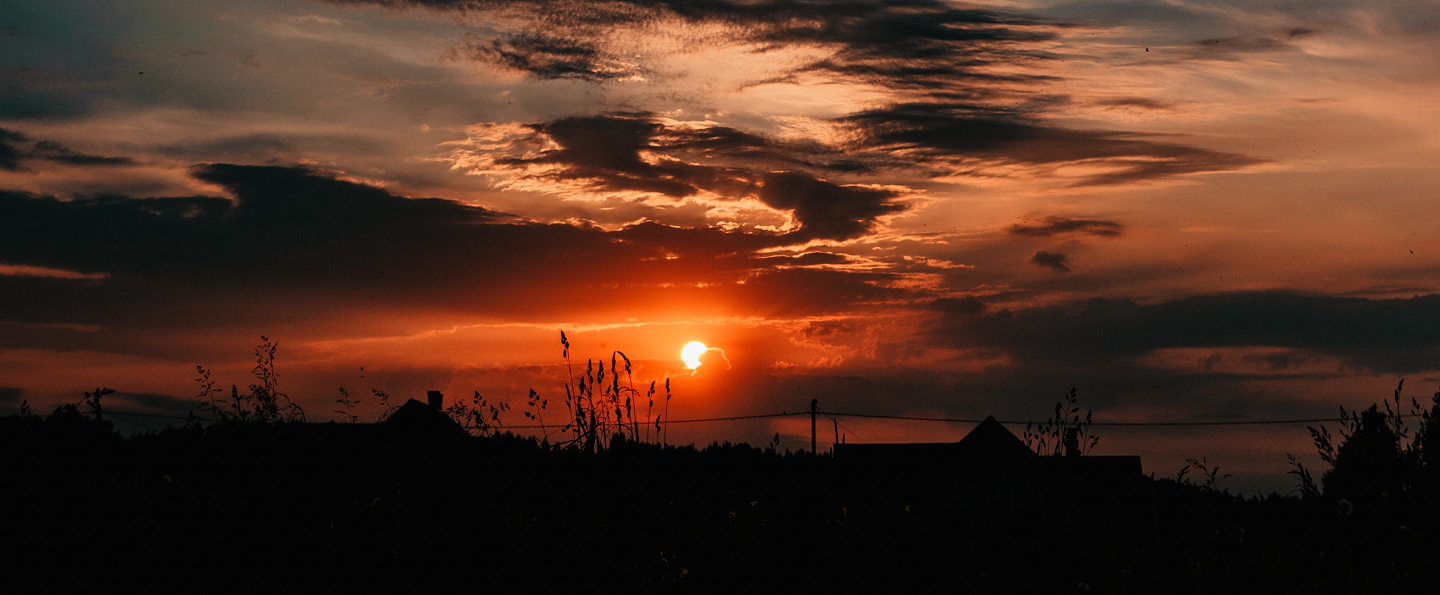
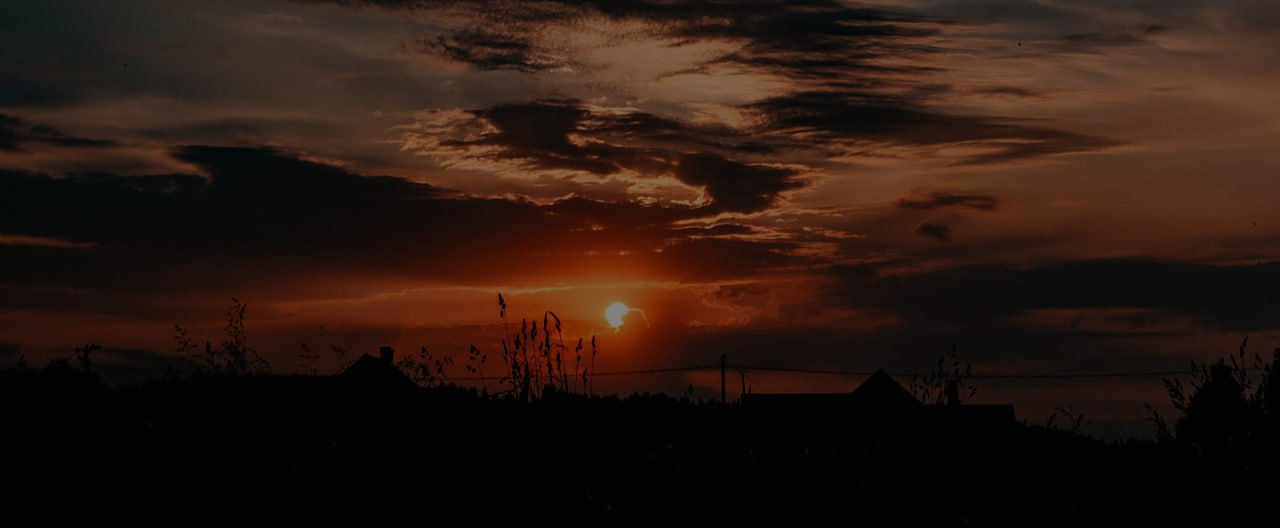
finish header

diff --git a/src/components/header/Header.css b/src/components/header/Header.css
@@ -1,17 +1,80 @@
+@import '../\ Root.css';
+*{
+    margin: 0;
+    padding: 0;
+}
 .header-title{
-    display: flex;
-  justify-content: center;
     font-size: 40px;
     color: white;
+    margin-bottom: 80px;
+}
+.header{
     padding-top: 100px;
+    padding-bottom: 100px;
+    display: flex;
+    flex-direction: column;
+    align-items: center;
 }
 .header-preview{
-    align-items: center; 
-    justify-content: center;
+    margin-left: -80px;
     display: flex;
-
+        align-items: center; 
+    row-gap: 52px;
+    margin-bottom: 137px;
 }
 .header-preview-vertical-line{
     rotate: 90deg;
     background: white;
+    width: 144px;
+    height: 1px;
+}
+.header-preview-left{
+    max-width: 290px;
+    color: white;
+    text-align: right;
+    font-size: 24px;
+    font-weight: 500;
+}
+.header-preview-right{
+    color: white;
+    max-width: 180px;
+    font-size: 24px;
+    font-weight: 500;
+}
+.header-form{
+display: flex;
+row-gap: 3px;
+
+
+} 
+input[name="search"]{
+    background: #D9D9D9;
+    color: black;
+    padding: 13px 0px 12px 29px;
+    border-radius: 10px;
+       border-top-right-radius: 0px;
+     border-bottom-right-radius: 0px;;
+     width: 530px;
+     margin-right: 2px;
+
+}
+input[name="search"]::placeholder{
+    color: #878787;
+   
+}
+
+.header-form-bg{
+    background: var(--primary-color);
+    width: 42px;
+    height: 42px;
+    border-top-right-radius: 10px;
+     border-bottom-right-radius: 10px;
+     display: flex;
+     justify-content: center;
+    align-items: center;
+    cursor: pointer;
+}
+.header-form-search{
+    width: 80%;
+    height: 80%;
 }

diff --git a/src/components/header/Header.jsx b/src/components/header/Header.jsx
@@ -1,25 +1,30 @@
 import React from "react";
 import './Header.css';
 import FonHeader from '../images/fon-header.png'
-const Header= () => {
+import { IoIosSearch } from "react-icons/io";
+const Header = () => {
   return (
     <header className="header"
-         style={{
+      style={{
         background: `url(${FonHeader}) no-repeat center/cover`,
-      }}
-    >
-   <h1 className="header-title">Weather dashboard</h1>
-   <div className="header-preview">
-    <p className="header-preview-left">Create your personal list of favorite cities and 
-        always be aware of the weather.</p>
-    <hr className="header-preview-vertical-line" />
-    <p className="header-preview-right" >October 2023
-      Friday, 13th</p>
-   </div>
+      }}>
+      <h1 className="header-title">Weather dashboard</h1>
+      <div className="header-preview">
+        <p className="header-preview-left">Create your personal list of favorite cities and
+          always be aware of the weather.</p>
+        <hr className="header-preview-vertical-line" />
+        <p className="header-preview-right" >October 2023
+          Friday, 13th</p>
+      </div>
+      <form className="header-form">
+          <input type="search" name="search" placeholder="Search location..."/>
+          <div className="header-form-bg"> 
+            <IoIosSearch className="header-form-search" />
+          </div>
+      </form>
     </header>
   );
 };
 
-export default   Header
-;
-
+export default Header
+  ;

diff --git a/src/reset.css b/src/reset.css
@@ -1,0 +1,21 @@
+*{
+    margin: 0;
+    padding: 0;
+}
+button{
+    border: none;
+    background: none;
+    cursor: pointer;
+}
+input{
+      border: none;
+    background: none;
+}
+input:focus{
+    outline: none;
+    border: none;
+}
+input:focus-visible{
+    outline: none;
+    border: none;
+}

diff --git a/src/App.js b/src/App.js
@@ -8,7 +8,7 @@ import UseNews from './components/news/ UseNews';
 import UsePixabay from './components/pixabay/UsePixabay';
 import UseWeather from './components/weather/UseWeather';
 import Header from './components/header/Header';
-
+import './reset.css'
 
 function App() {
   return (
